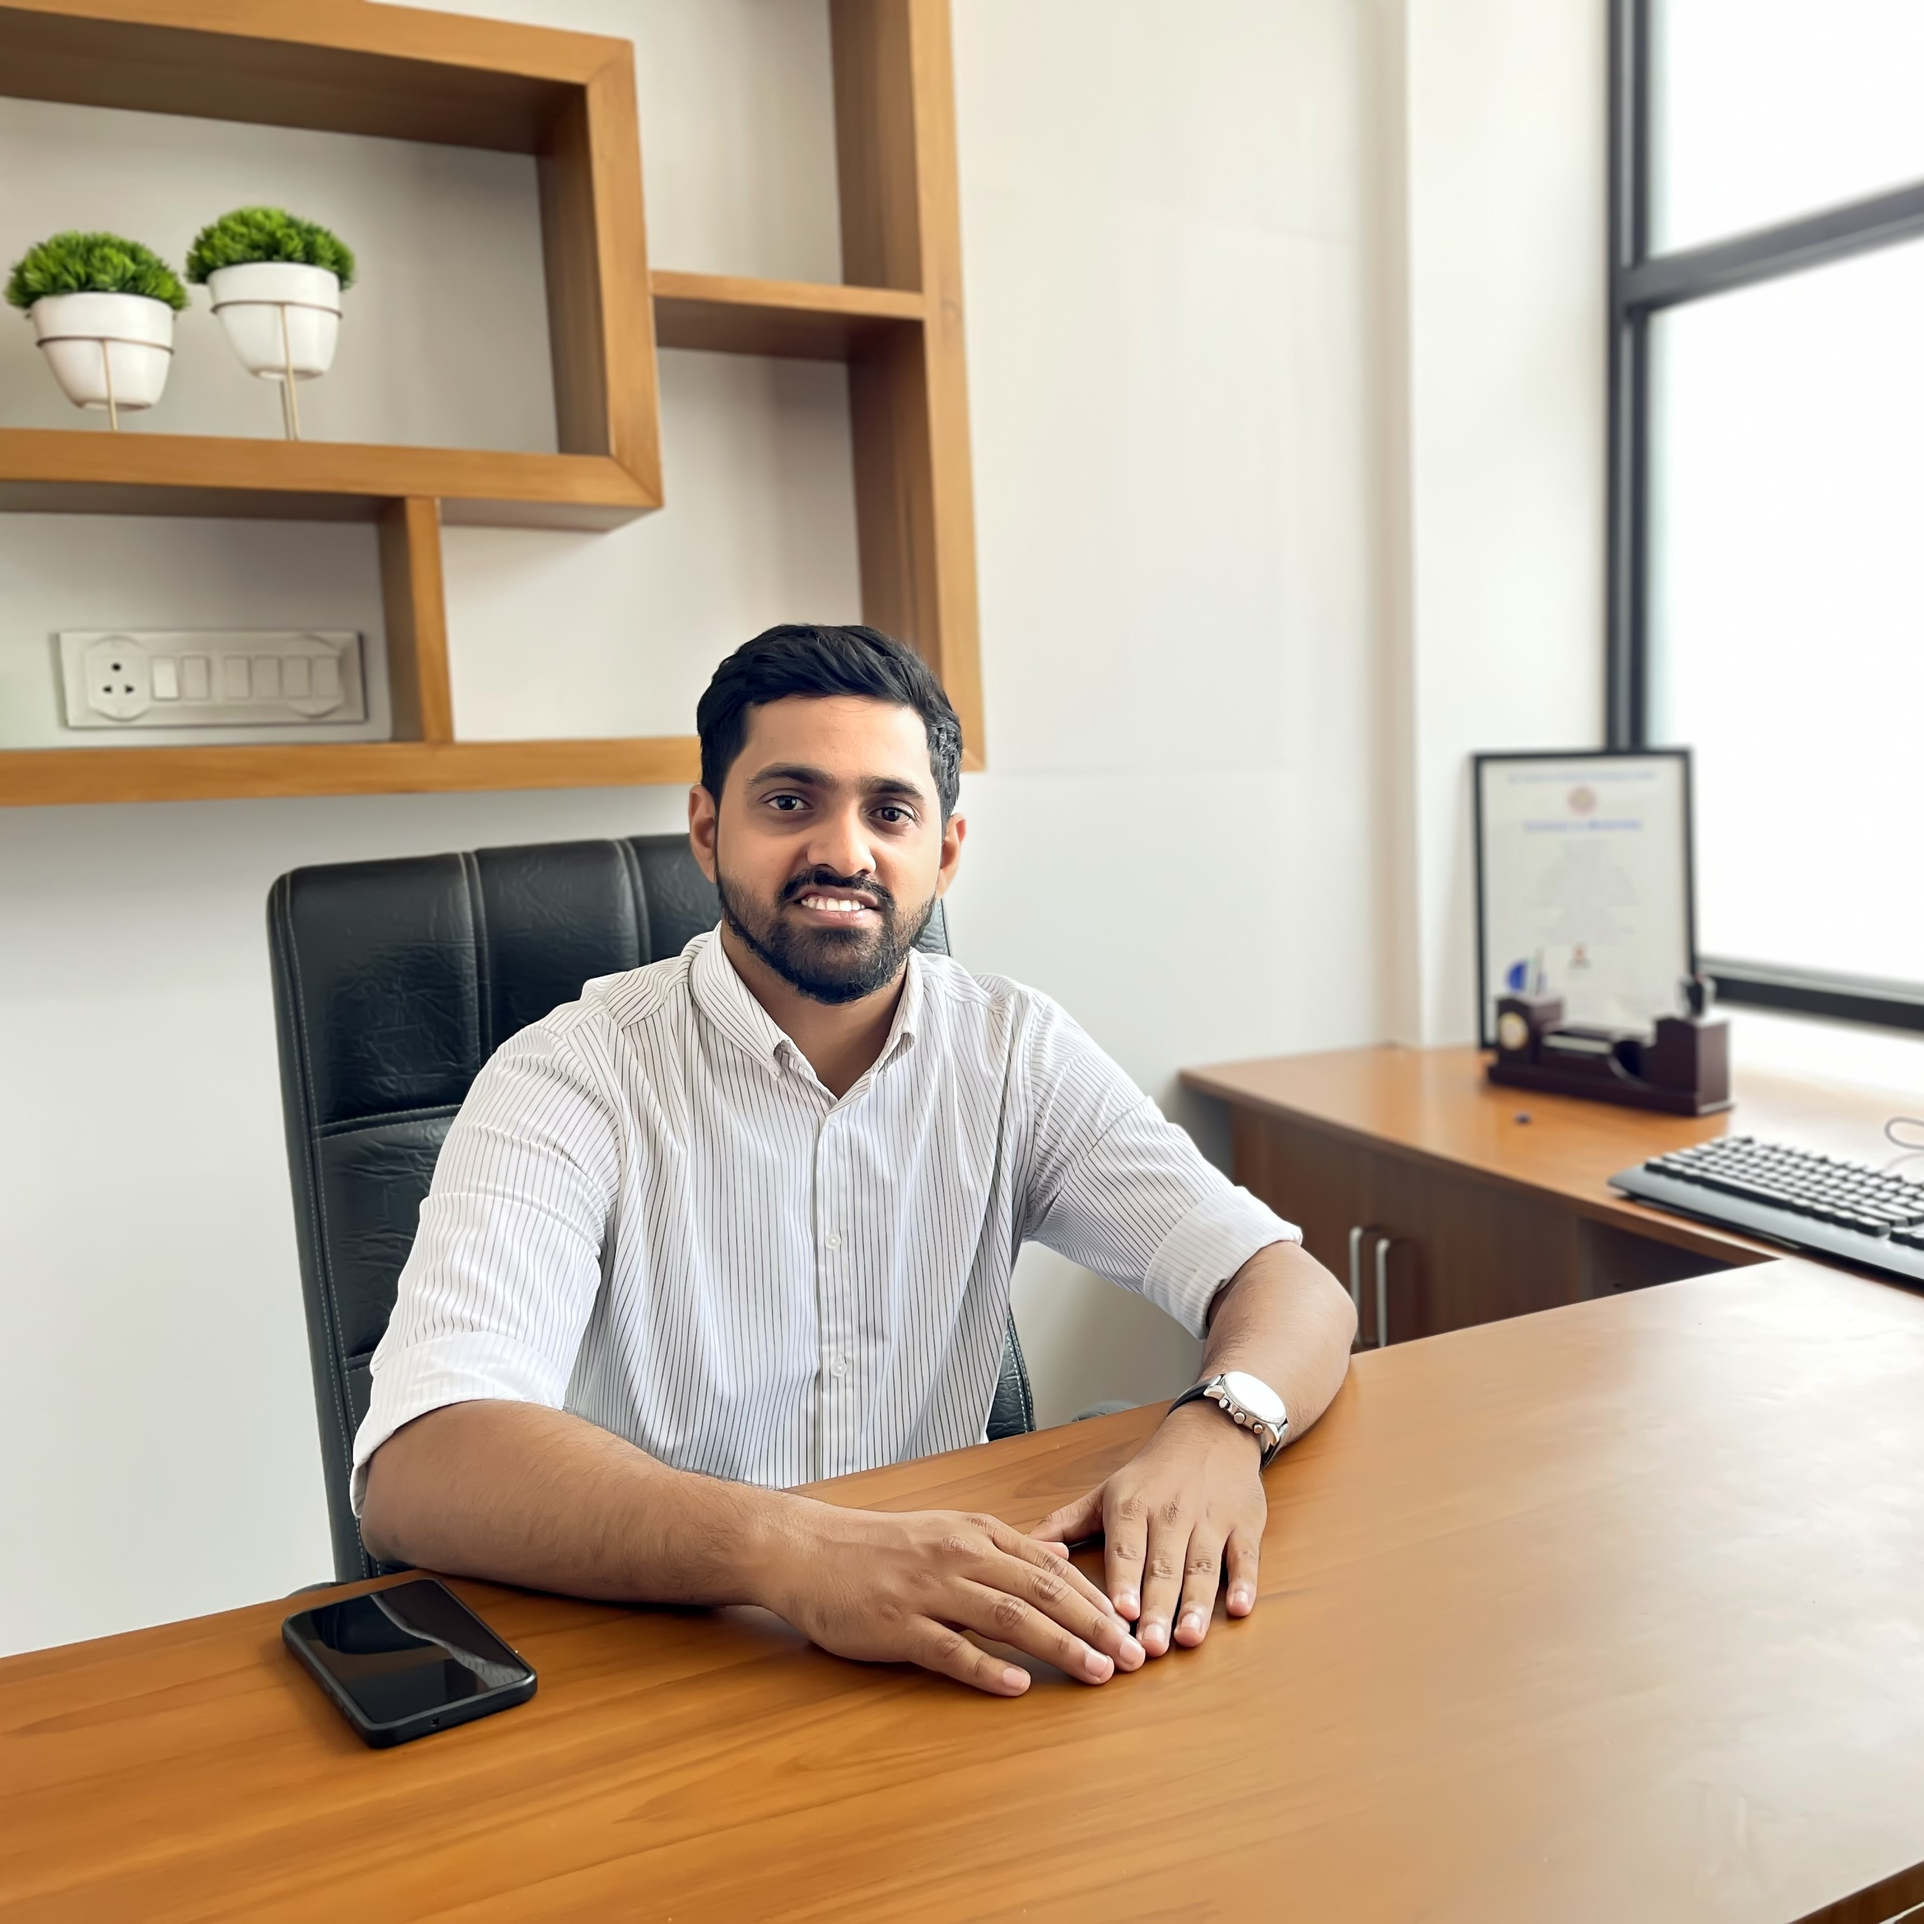
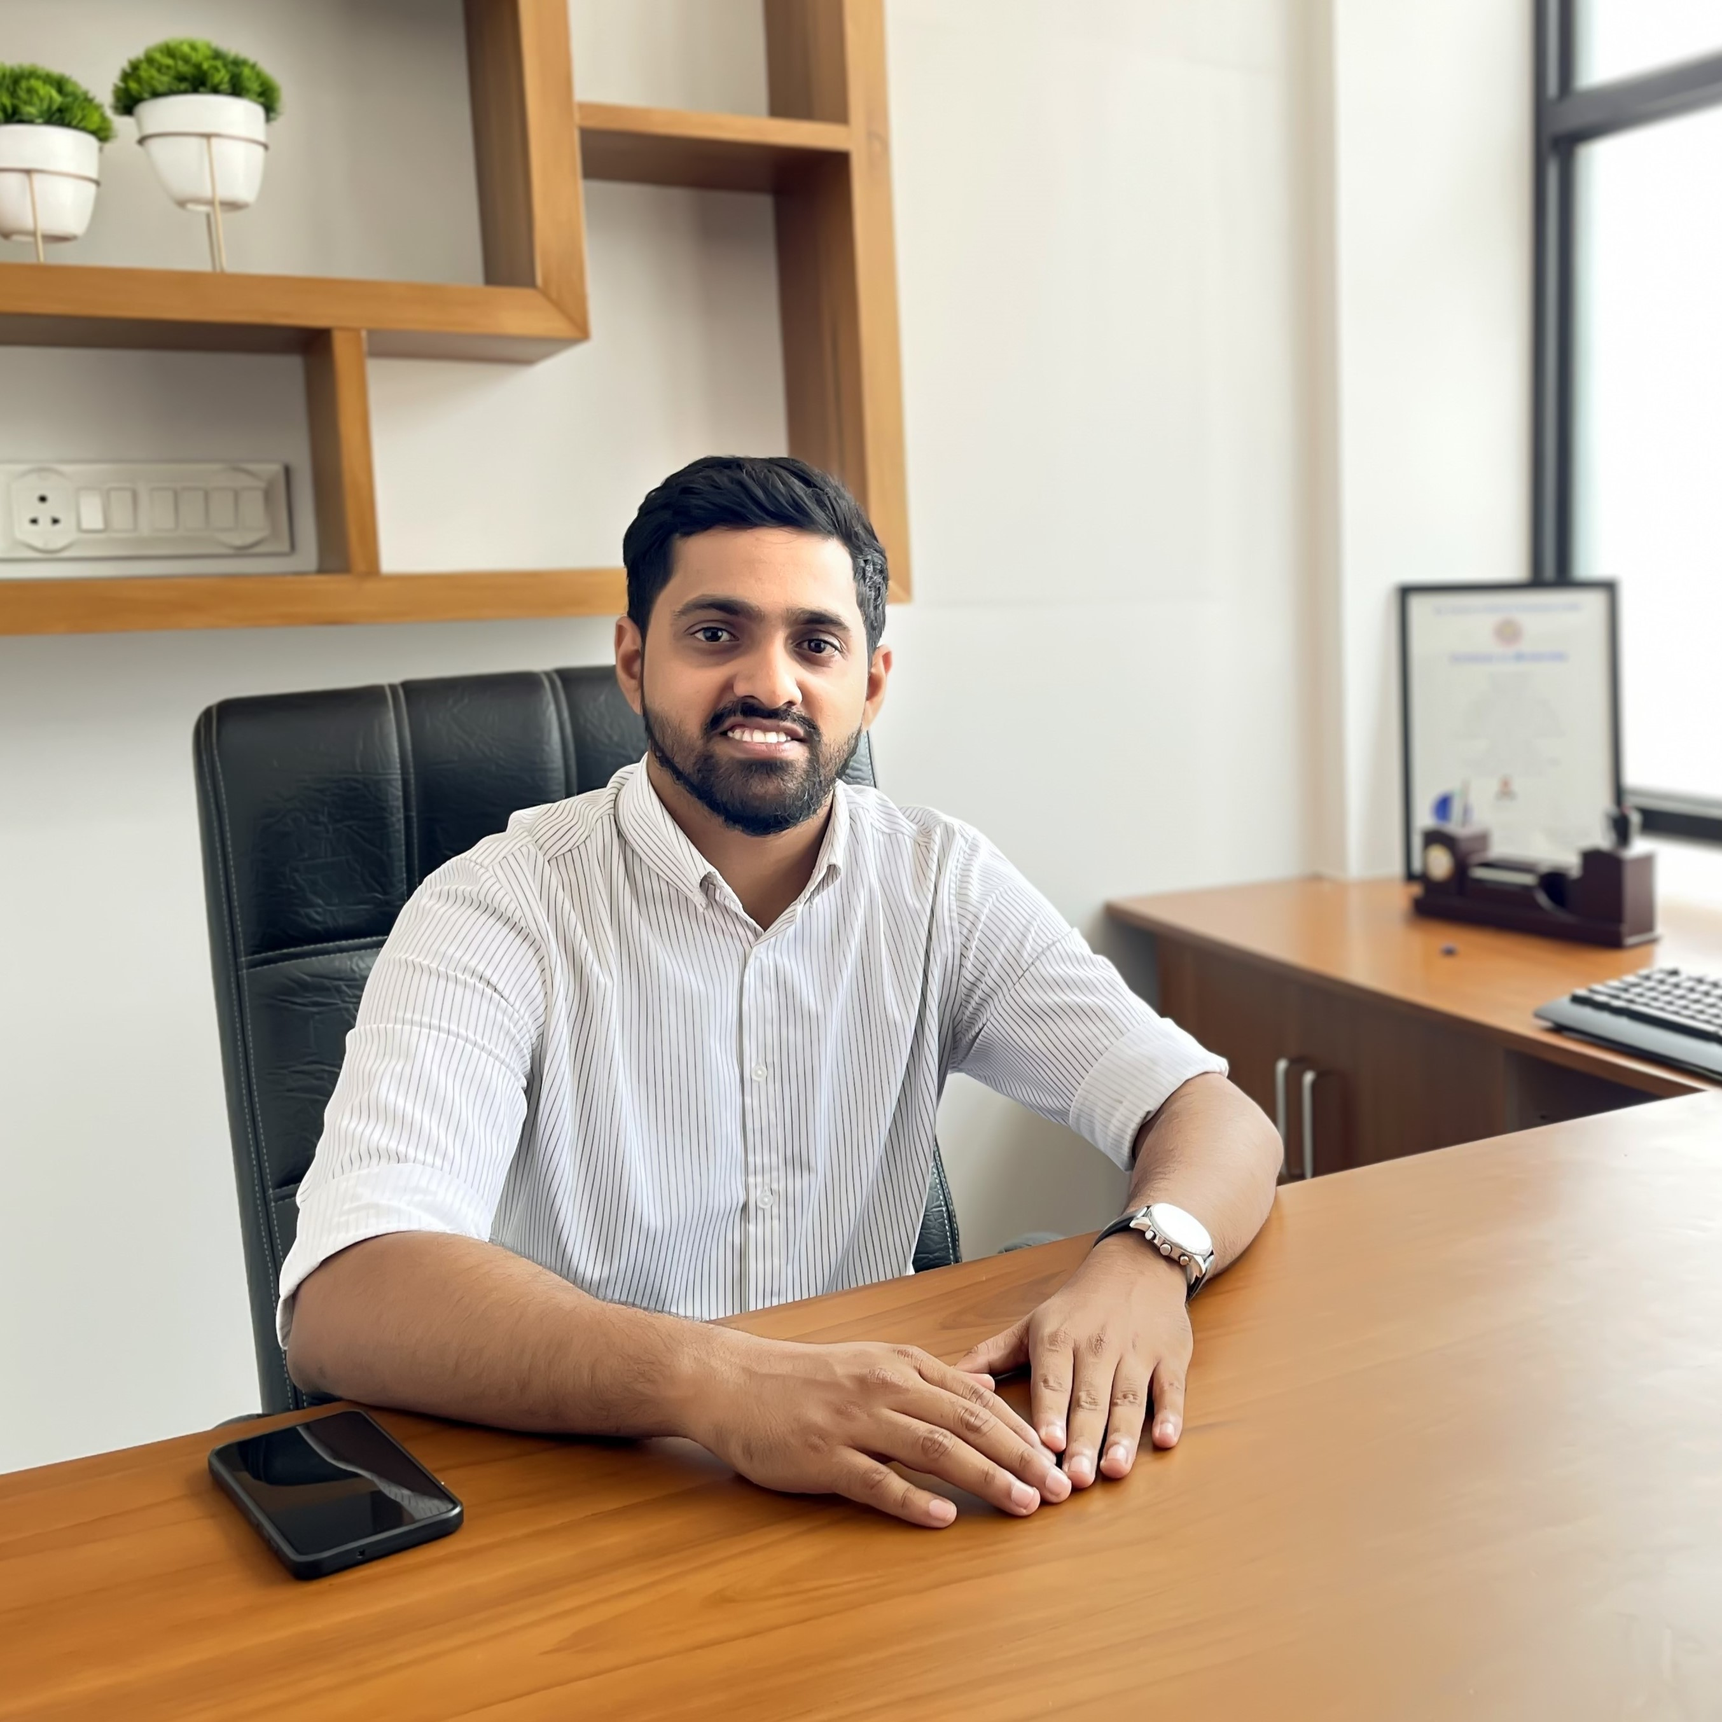
Hot fixes

diff --git a/src/components/About/About.js b/src/components/About/About.js
@@ -11,7 +11,7 @@ import { faFacebook, faInstagram, faSquareXTwitter } from '@fortawesome/free-bra
 
 
 // Team Section
-import founder1 from '../../assets/Images/founder1.jpg';
+import founder1 from '../../assets/Images/founder11.jpg';
 import founder2 from '../../assets/Images/founder2.jpg';
 import Irfan from '../../assets/Team/irfan.jpg';
 import Shilpa from '../../assets/Team/shilpa.jpg';
@@ -106,14 +106,13 @@ function About() {
       {/* Keep the Co-Founders Section */}
       <section>
         <Container className="d-flex justify-content-center">
-          < HeaderComponent mainHeading={""} subHeading={"Our"} />
-          <span className="bg-watermark">Founders</span>
+          < HeaderComponent mainHeading={"FOUNDERS"} subHeading={"Our"} />
         </Container>
 
         {/* Founders section */}
         <Container>
-          <div className="cards">
-            <div className="card">
+          <Row className="cards">
+            <Col className="card">
               <img src={founder1} alt="Founder" />
               <div className="card-content">
                 <h3>Jabir Moidu E K</h3>
@@ -124,9 +123,9 @@ function About() {
                   <a href="#"><FontAwesomeIcon icon={faSquareXTwitter} /></a>
                 </div>
               </div>
-            </div>
+            </Col>
 
-            <div className="card">
+            <Col className="card">
               <img src={founder2} alt="Founder" />
               <div className="card-content">
                 <h3>Muhammedali KK</h3>
@@ -137,15 +136,14 @@ function About() {
                   <a href="#"><FontAwesomeIcon icon={faSquareXTwitter} /></a>
                 </div>
               </div>
-            </div>
-          </div>
+            </Col>
+          </Row>
         </Container >
       </section>
 
       <section className='mt-5'>
         <Container className="d-flex justify-content-center mt-5">
-          < HeaderComponent mainHeading={""} subHeading={"OUR"} />
-          <span className="bg-watermark">Core Team</span>
+          < HeaderComponent mainHeading={"CORE TEAM"} subHeading={"OUR"} />
         </Container>
         <Slider {...settings} className='mb-5'>
           {teachers.map((teacher) => (

diff --git a/src/components/About/About.scss b/src/components/About/About.scss
@@ -169,21 +169,6 @@ img {
     display: block;
 }
 
-.bg-watermark {
-    color: #1f1f1f;
-    font-size: 3rem;
-    font-weight: 800;
-    position: absolute;
-    z-index: -1;
-    left: 50%;
-    transform: translatex(-50%) translatey(50%);
-    user-select: none;
-    letter-spacing: 0.5rem;
-    text-decoration: underline #f2709c;
-    text-transform: uppercase;
-}
-
-
 section {
     span {
         text-transform: uppercase;
@@ -323,7 +308,6 @@ section {
         margin: 0 25px;
 
         .img {
-            // position: relative;
             width: 100%;
             height: 100%;
             transition: .6s;

diff --git a/src/components/Home/Home.scss b/src/components/Home/Home.scss
@@ -30,7 +30,8 @@
             .card-body {
                 margin-bottom: 26px;
             }
-            .whatsapp-icon{
+
+            .whatsapp-icon {
                 display: none;
             }
         }
@@ -217,10 +218,17 @@
                     }
 
                     .card-link {
-                        padding: 8px 24px 8px 24px !important;
+                        padding: 8px 18px 8px 18px !important;
                     }
                 }
             }
         }
+    }
+
+    .featured-courses-section {
+        .container {
+            margin-top: 10em;
+        }
+
     }
 }

diff --git a/src/components/Home/Home.js b/src/components/Home/Home.js
@@ -139,7 +139,7 @@ function Home() {
             {/* <section className='map-location-section'>
                 place map here
             </section> */}
-            <section className='featured-courses-section'>
+            <section className='featured-courses-section mt-5'>
                 <Container>
                     <div>
                         <HeaderComponent mainHeading={"Featured Courses"} subHeading={"READY TO LEARN?"} />

diff --git a/src/components/MiniComponents/HeaderComponent/HeaderComponent.js b/src/components/MiniComponents/HeaderComponent/HeaderComponent.js
@@ -4,7 +4,7 @@ function HeaderComponent({mainHeading, subHeading}) {
     return (
         <div className="section-header-wrapper mb-4 mt-4">
             <span className="sub-title">{subHeading}</span>
-            <h3 className="main-title text-left">{mainHeading}</h3>
+            <h1 className="main-title text-left">{mainHeading}</h1>
         </div>
     )
 }

diff --git a/src/components/MiniComponents/SlickSlider/SlickSlider.js b/src/components/MiniComponents/SlickSlider/SlickSlider.js
@@ -25,6 +25,7 @@ export default function SimpleSlider({ testimonials }) {
                 settings: {
                     slidesToShow: 1,
                     slidesToScroll: 1,
+                    dots: false,
                 },
             },
         ],

diff --git a/src/components/MiniComponents/HeaderComponent/HeaderComponent.scss b/src/components/MiniComponents/HeaderComponent/HeaderComponent.scss
@@ -29,5 +29,6 @@
         line-height: 46px;
         margin: 0;
         max-width: 100%;
+        text-decoration: underline #f2709c;
     }
 }
